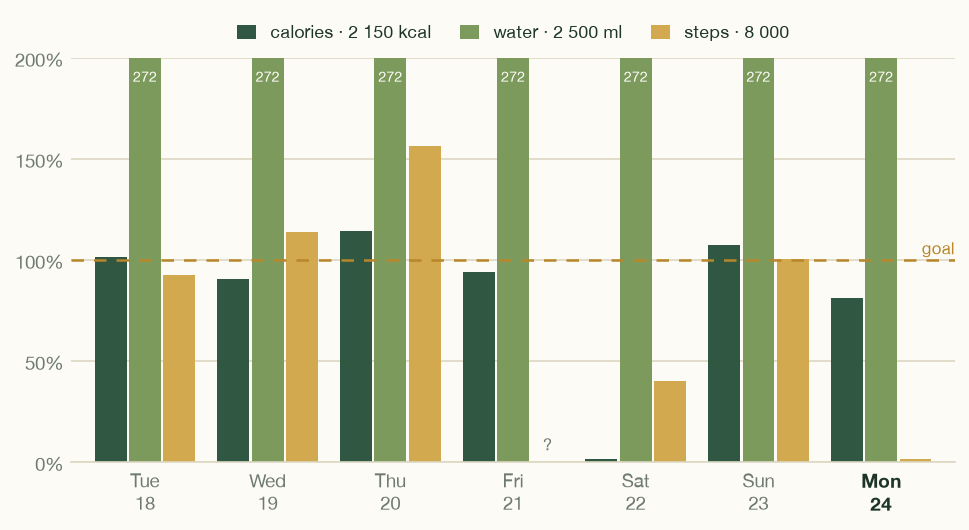
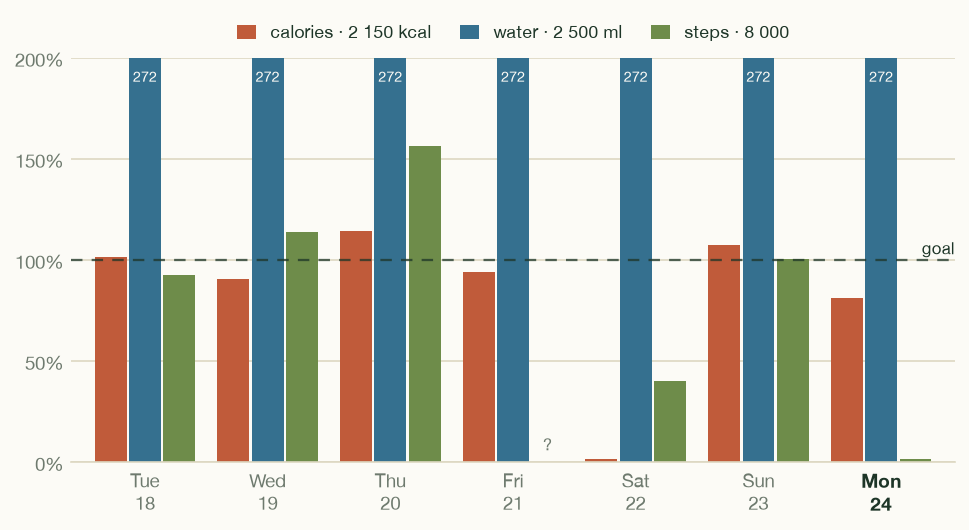
charts: colour the digest series semantically
Terracotta calories, blue water, green steps. The brand tokens were three
greens-and-golds that told a reader nothing about which bar was which, so
every glance cost a trip to the legend; colour now carries the meaning and
the legend only confirms it, which is what keeps the chart readable at
Telegram's thumbnail size.

Desaturated towards the page's earth tones rather than taken at full
strength — three saturated primaries on cream read as a spreadsheet — and
matched for value so no series looks louder than the others.

The goal line moves from gold to ink. Gold sits close enough to the terracotta
in hue that the dashed rule went soft exactly where it matters most, crossing
a calorie bar. A near-black rule reads as structure rather than as a fourth
series and holds against all three.

diff --git a/src/umai/analytics/charts.py b/src/umai/analytics/charts.py
@@ -11,10 +11,11 @@ docs/index.html rather than like matplotlib.
 **The digest chart is one chart, not three.** Calories, water and steps are
 three units that cannot share an axis, so each bar is drawn as a percentage
 of that metric's own daily goal and the goal itself is the single dashed
-line at 100%. The absolute figures are not printed on the bars — they are
-already in the caption underneath, and putting them here twice is the
-crowding this chart is meant to avoid. What the bars are measured against
-lives in the legend, once per series.
+line at 100%. Series colour is semantic — terracotta food, blue water, green
+movement — so the bars can be read before the legend is. The absolute figures
+are not printed on the bars: they are already in the caption underneath, and
+putting them here twice is the crowding this chart is meant to avoid. What
+the bars are measured against lives in the legend, once per series.
 """
 
 from __future__ import annotations
@@ -131,19 +132,19 @@ def week_overview(
         kcal_label = "calories · vs own average"
 
     series = (
-        (kcal_label, kcal_ref, " kcal", theme.GREEN, [_pct(k, kcal_ref) for k in kcal]),
+        (kcal_label, kcal_ref, " kcal", theme.SERIES_KCAL, [_pct(k, kcal_ref) for k in kcal]),
         (
             "water",
             water_target_ml,
             " ml",
-            theme.SAGE,
+            theme.SERIES_WATER,
             [_pct(w, water_target_ml) for w in water_ml],
         ),
         (
             "steps",
             step_goal,
             "",
-            theme.GOLD_SOFT,
+            theme.SERIES_STEPS,
             [_pct(s, step_goal) for s in steps],
         ),
     )
@@ -202,7 +203,7 @@ def week_overview(
                     fontfamily=FONT,
                 )
 
-    ax.axhline(100, color=theme.GOLD, lw=1.2, ls=(0, (5, 4)), zorder=3)
+    ax.axhline(100, color=theme.INK, lw=1.1, ls=(0, (5, 4)), zorder=3, alpha=0.75)
     ax.text(
         len(days) - 0.4,
         101,
@@ -210,7 +211,7 @@ def week_overview(
         ha="right",
         va="bottom",
         fontsize=8,
-        color=theme.GOLD,
+        color=theme.INK,
         fontfamily=FONT,
     )
 

diff --git a/src/umai/theme.py b/src/umai/theme.py
@@ -13,7 +13,7 @@ prevent.
   green      #2F5741  the primary data colour
   green_soft #4A7358  secondary green, hover/second series
   sage       #7C9A5B  tertiary series
-  gold       #B8862B  the accent, reserved for goal lines
+  gold       #B8862B  the page's accent; not used by the charts
   gold_soft  #D2A94F  a fourth series, and the gold that survives as a fill
   cream      #EDE6C8  large calm areas
   cream_dim  #F4EFDC  background wash
@@ -46,6 +46,26 @@ LINE = "#DDD8C2"
 # rather than raising.
 FONT_STACK = ["Inter", "Helvetica Neue", "Helvetica", "Arial", "DejaVu Sans"]
 
+# The digest chart's three series. These are *semantic* rather than brand
+# colours: a reader should not have to consult a legend to know which bar is
+# water. Colour carries the meaning and the legend confirms it, which is what
+# lets the chart stay readable at Telegram's thumbnail size.
+#
+#   kcal   terracotta   food and heat
+#   water  slate blue   the one unarguable convention in the set
+#   steps  moss green   movement, and the palette's own green
+#
+# Desaturated towards the brand's earth tones rather than taken at full
+# strength: three saturated primaries on a cream page read as a spreadsheet.
+# They are matched for value, so no series looks louder than the others at a
+# glance. The goal line is drawn in INK rather than GOLD: gold sits close
+# enough to the terracotta in hue that the dashed rule went soft exactly where
+# it matters most, crossing a calorie bar. A near-black rule reads as
+# structure rather than as a fourth series, and holds against all three.
+SERIES_KCAL = "#C05B3A"
+SERIES_WATER = "#35708F"
+SERIES_STEPS = "#6E8C4A"
+
 __all__ = [
     "CREAM",
     "CREAM_DIM",
@@ -59,4 +79,7 @@ __all__ = [
     "MUTED",
     "PAPER",
     "SAGE",
+    "SERIES_KCAL",
+    "SERIES_STEPS",
+    "SERIES_WATER",
 ]

diff --git a/docs/progress.md b/docs/progress.md
@@ -23,7 +23,7 @@ One page, three sections. Details live in CLAUDE.md and the module docstrings.
 - **Dinnerware calibration** (`/dinnerware`): measured once with a bank card beside the plate, stored per-user, injected into every photo prompt as the primary scale reference. CRUD via `/dinnerware name: description` with inline remove buttons.
 - **Recipe creation** (`/recipe`): schema, resolver tier, and compute path all existed; now wired to chat. Name the recipe, add ingredients one per message, optional cooked weight for yield factor, per-100g profile computed and stored.
 - **Food library one-tap** (`/library`): surfaces the user's most frequent foods with typical portions for one-tap re-logging.
-- **Digest chart redesign** (2026-08-24): the 21:30 push carries one grouped bar chart instead of a bare calorie one. Calories, water and steps are three units that cannot share an axis, so each bar is drawn as a percentage of its own daily goal and the goal is the single dashed line at 100% — the absolute figures stay in the caption underneath rather than being printed twice. `charts.week_overview` replaces `week_kcal`, `jobs._last_days` returns a `WeekSeries` of the three aligned series, and the palette in `src/umai/theme.py` is now the landing page's CSS custom properties token for token, so a chart and `docs/index.html` cannot drift. A missing step reading draws a muted "?" and a genuine zero draws a visible stub, because an absent bar and a zero bar are otherwise identical and mean opposite things.
+- **Digest chart redesign** (2026-08-24): the 21:30 push carries one grouped bar chart instead of a bare calorie one. Calories, water and steps are three units that cannot share an axis, so each bar is drawn as a percentage of its own daily goal and the goal is the single dashed line at 100% — the absolute figures stay in the caption underneath rather than being printed twice. `charts.week_overview` replaces `week_kcal`, `jobs._last_days` returns a `WeekSeries` of the three aligned series, and the palette in `src/umai/theme.py` is now the landing page's CSS custom properties token for token, so a chart and `docs/index.html` cannot drift. The three series are coloured semantically rather than by brand token — terracotta calories, blue water, green steps — so a bar can be read before the legend is; the goal line is ink rather than gold, which went soft exactly where it mattered, crossing a calorie bar. A missing step reading draws a muted "?" and a genuine zero draws a visible stub, because an absent bar and a zero bar are otherwise identical and mean opposite things.
 - **409 tests green** (unit + Postgres integration), ruff + mypy clean, wall-clock ban holds.
 - **Repo cleanup**: integration tests moved out of `tests/fixtures/integration/` to
   `tests/integration/` where every doc already said they were; docs collected under `docs/`;
